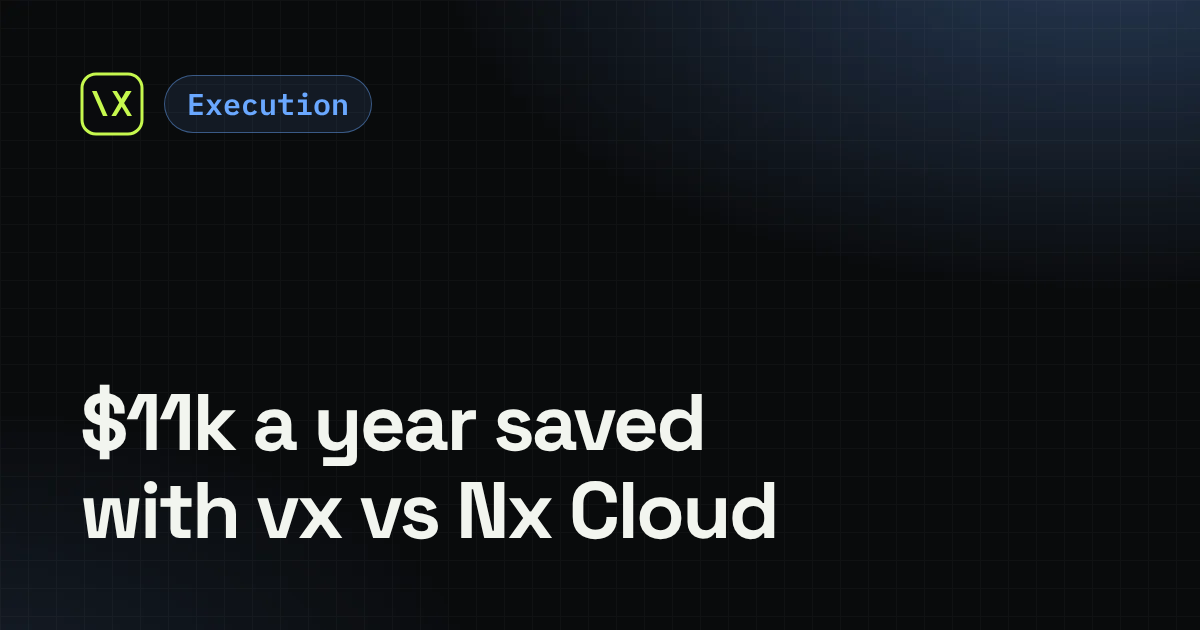
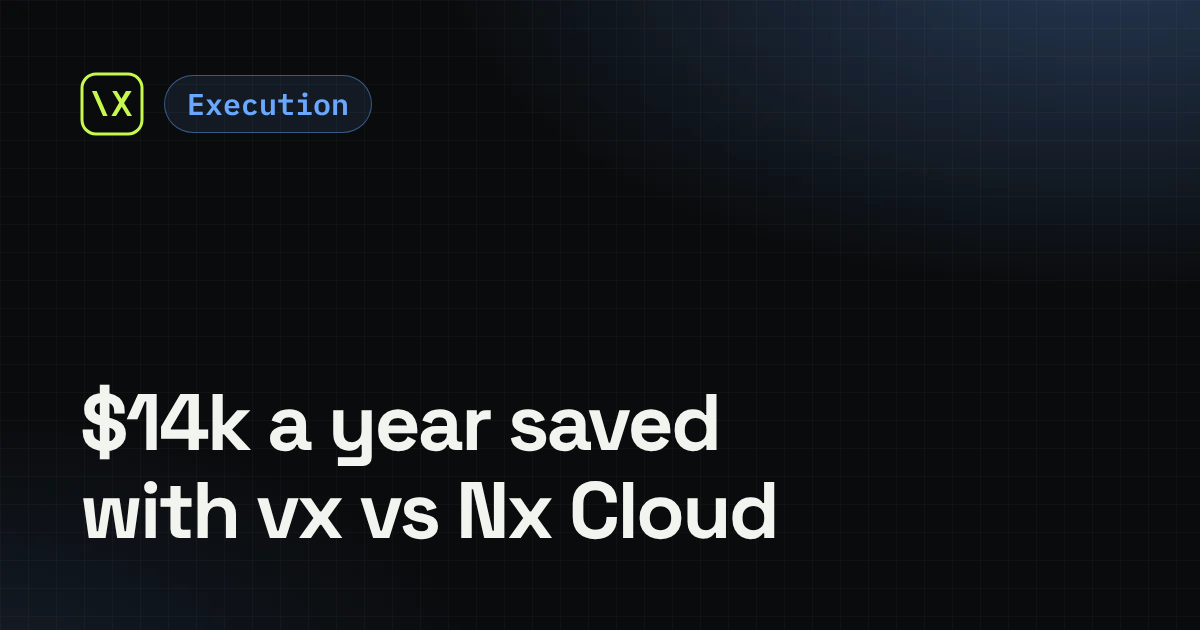
docs(blog): price the DTE post on measured runs and worker minutes
The cost assumed one PR and one main run per main commit and one
mostly-cached run's agent minutes. Use last week's 760 finished runs
and the mean Linux worker time of the 38 runs since #4119, weighted by
the PR/main mix: $14,304 a year.

Changed region(s): [[0.1233, 0.6032, 0.6167, 0.754]]

diff --git a/private/vx-docs/src/content/docs/blog/one-run-on-your-own-runners.md b/private/vx-docs/src/content/docs/blog/one-run-on-your-own-runners.md
@@ -1,5 +1,5 @@
 ---
-title: '$11k a year saved with vx vs Nx Cloud'
+title: '$14k a year saved with vx vs Nx Cloud'
 date: 2026-10-23T17:30:00Z
 authors:
   - vzn
@@ -7,7 +7,7 @@ tags:
   - execution
   - plugins
   - ci
-excerpt: "vx's CI is one distributed run over its own Linux and Mac runners, through a relay on the Cloudflare Workers free plan. On Nx Cloud's Team plan with Nx's agents, the same CI would cost about $11,088 a year; on vx it costs $0. How it works, end to end, the math, and what is still slow."
+excerpt: "vx's CI is one distributed run over its own Linux and Mac runners, through a relay on the Cloudflare Workers free plan. On Nx Cloud's Team plan with Nx's agents, the same CI would cost about $14,304 a year; on vx it costs $0. How it works, end to end, the math, and what is still slow."
 ---
 
 :::caution[Alpha, not released]
@@ -18,9 +18,9 @@ and vx's own CI runs on them every push. Names and options may still
 change.
 :::
 
-**$11,088 a year** is what this repository's CI would cost on Nx
-Cloud's Team plan with Nx's agents, at about 100 pipeline runs a day;
-on vx DTE it costs $0. The math and its assumptions are in
+**$14,304 a year** is what this repository's CI would cost on Nx
+Cloud's Team plan with Nx's agents, at the 108 runs a day it really
+had last week; on vx DTE it costs $0. The math and its assumptions are in
 [What it costs](#what-it-costs-next-to-nx-cloud): Nx's public prices
 read 2026-10-23, Mac work and concurrent connections not counted.
 
@@ -306,23 +306,30 @@ agent per worker, resource-usage reports off, concurrent connections,
 the Mac work and taxes not counted. The Team plan's $29 fee buys $29 of
 usage, so the bill is the usage alone once it passes $29.
 
-**This repository.** 49 commits landed on main in the 24 hours before
-16:30 UTC on 2026-10-23 (`git log`). Counting one PR run and one main
-run for each: about 100 pipeline executions a day, 3,000 a month. On
-49adc41 the four Linux workers were online 178.8 s together: about 3
-agent minutes, 60 credits. Each execution is then 560 credits:
-1,680,000 a month, $924, with one contributor. That run was mostly
-cache hits; a run that misses more uses more agent minutes. The Hobby
-plan's 50,000 credits cover 89 such executions, under one day.
+**This repository.** CI ran to an end 760 times in the 7 days before
+18:00 UTC on 2026-10-23: 451 PR runs, 304 main runs, 5 manual
+(GitHub's API; cancelled runs not counted). That is 108 a day, 3,257
+a month.
 
-**A 20-person team** with 200 executions per working day, 21 working
+No two runs do the same work: a PR runs only what it affects, and the
+cache answers what did not change. So the agent minutes come from the
+38 runs that finished since #4119, each worker's time online in its
+`vx dte worker` step. A PR run kept Linux workers online 5.2 minutes
+on average (1.8 to 11.5), a main run 12.9 (0 to 34.9). Weighted by
+last week's mix, a run is 165 agent credits and, with the 500 per
+execution, 665. That is 2,167,312 credits a month: $1,192, with one
+contributor. The Hobby plan's 50,000 credits cover 75 runs, under one
+day. [The per-run numbers](https://github.com/vznjs/vx/pull/4138) are
+in the PR.
+
+**A 20-person team**, a made-up case, with 200 executions per working day, 21 working
 days a month, and 10 agent minutes per execution: 4,200 executions of
 700 credits, 2,940,000 credits, $1,617, plus 15 contributors beyond the
 first 5 at $19, $285. $1,902 a month.
 
 | Scenario            | Nx Cloud Team, Nx's agents      | vx DTE |
 | ------------------- | ------------------------------: | -----: |
-| this repository     | $924 a month, $11,088 a year    |     $0 |
+| this repository     | $1,192 a month, $14,304 a year  |     $0 |
 | a 20-person team    | $1,902 a month, $22,824 a year  |     $0 |
 
 vx DTE costs $0 for both: no plan, no credits, no seats. Its compute is
